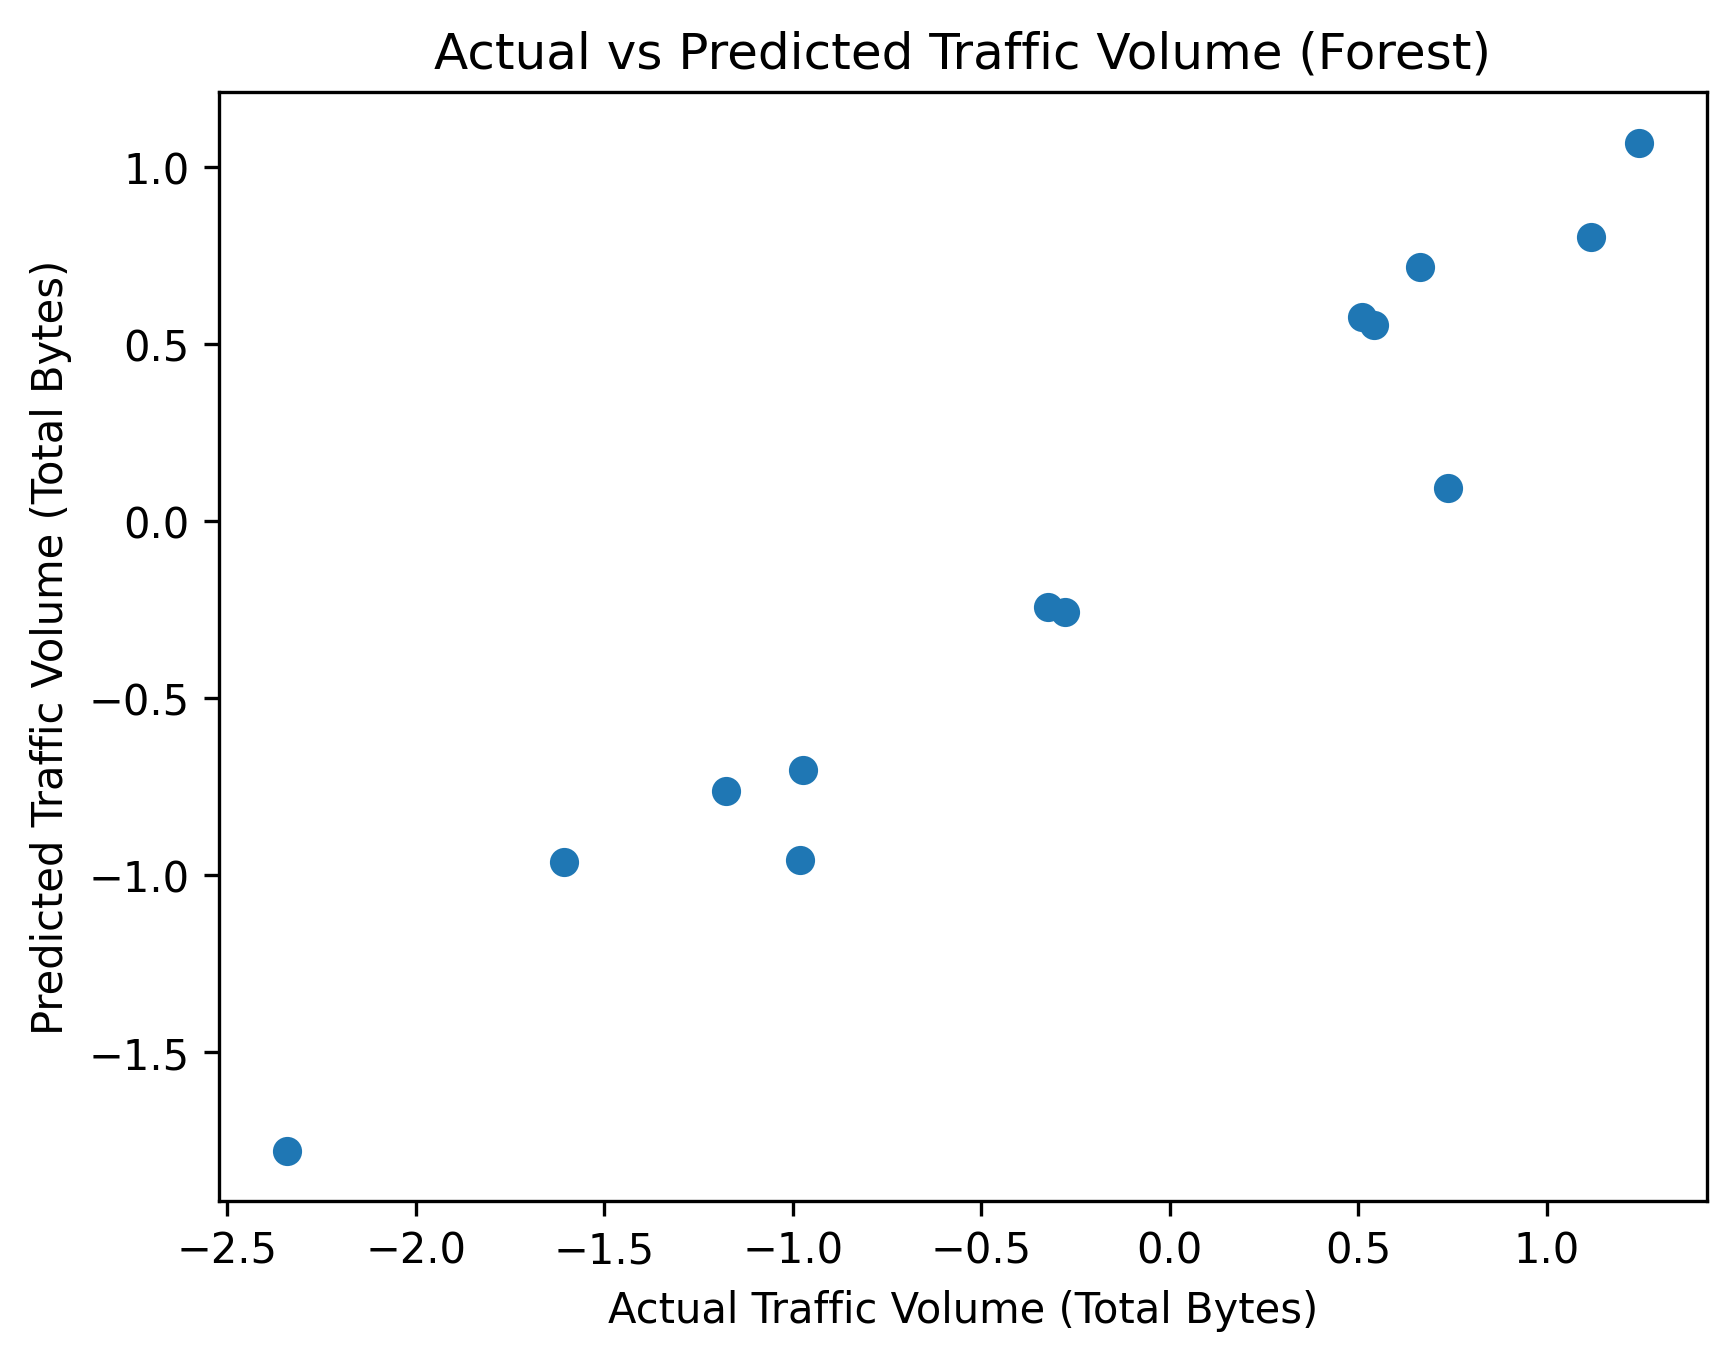
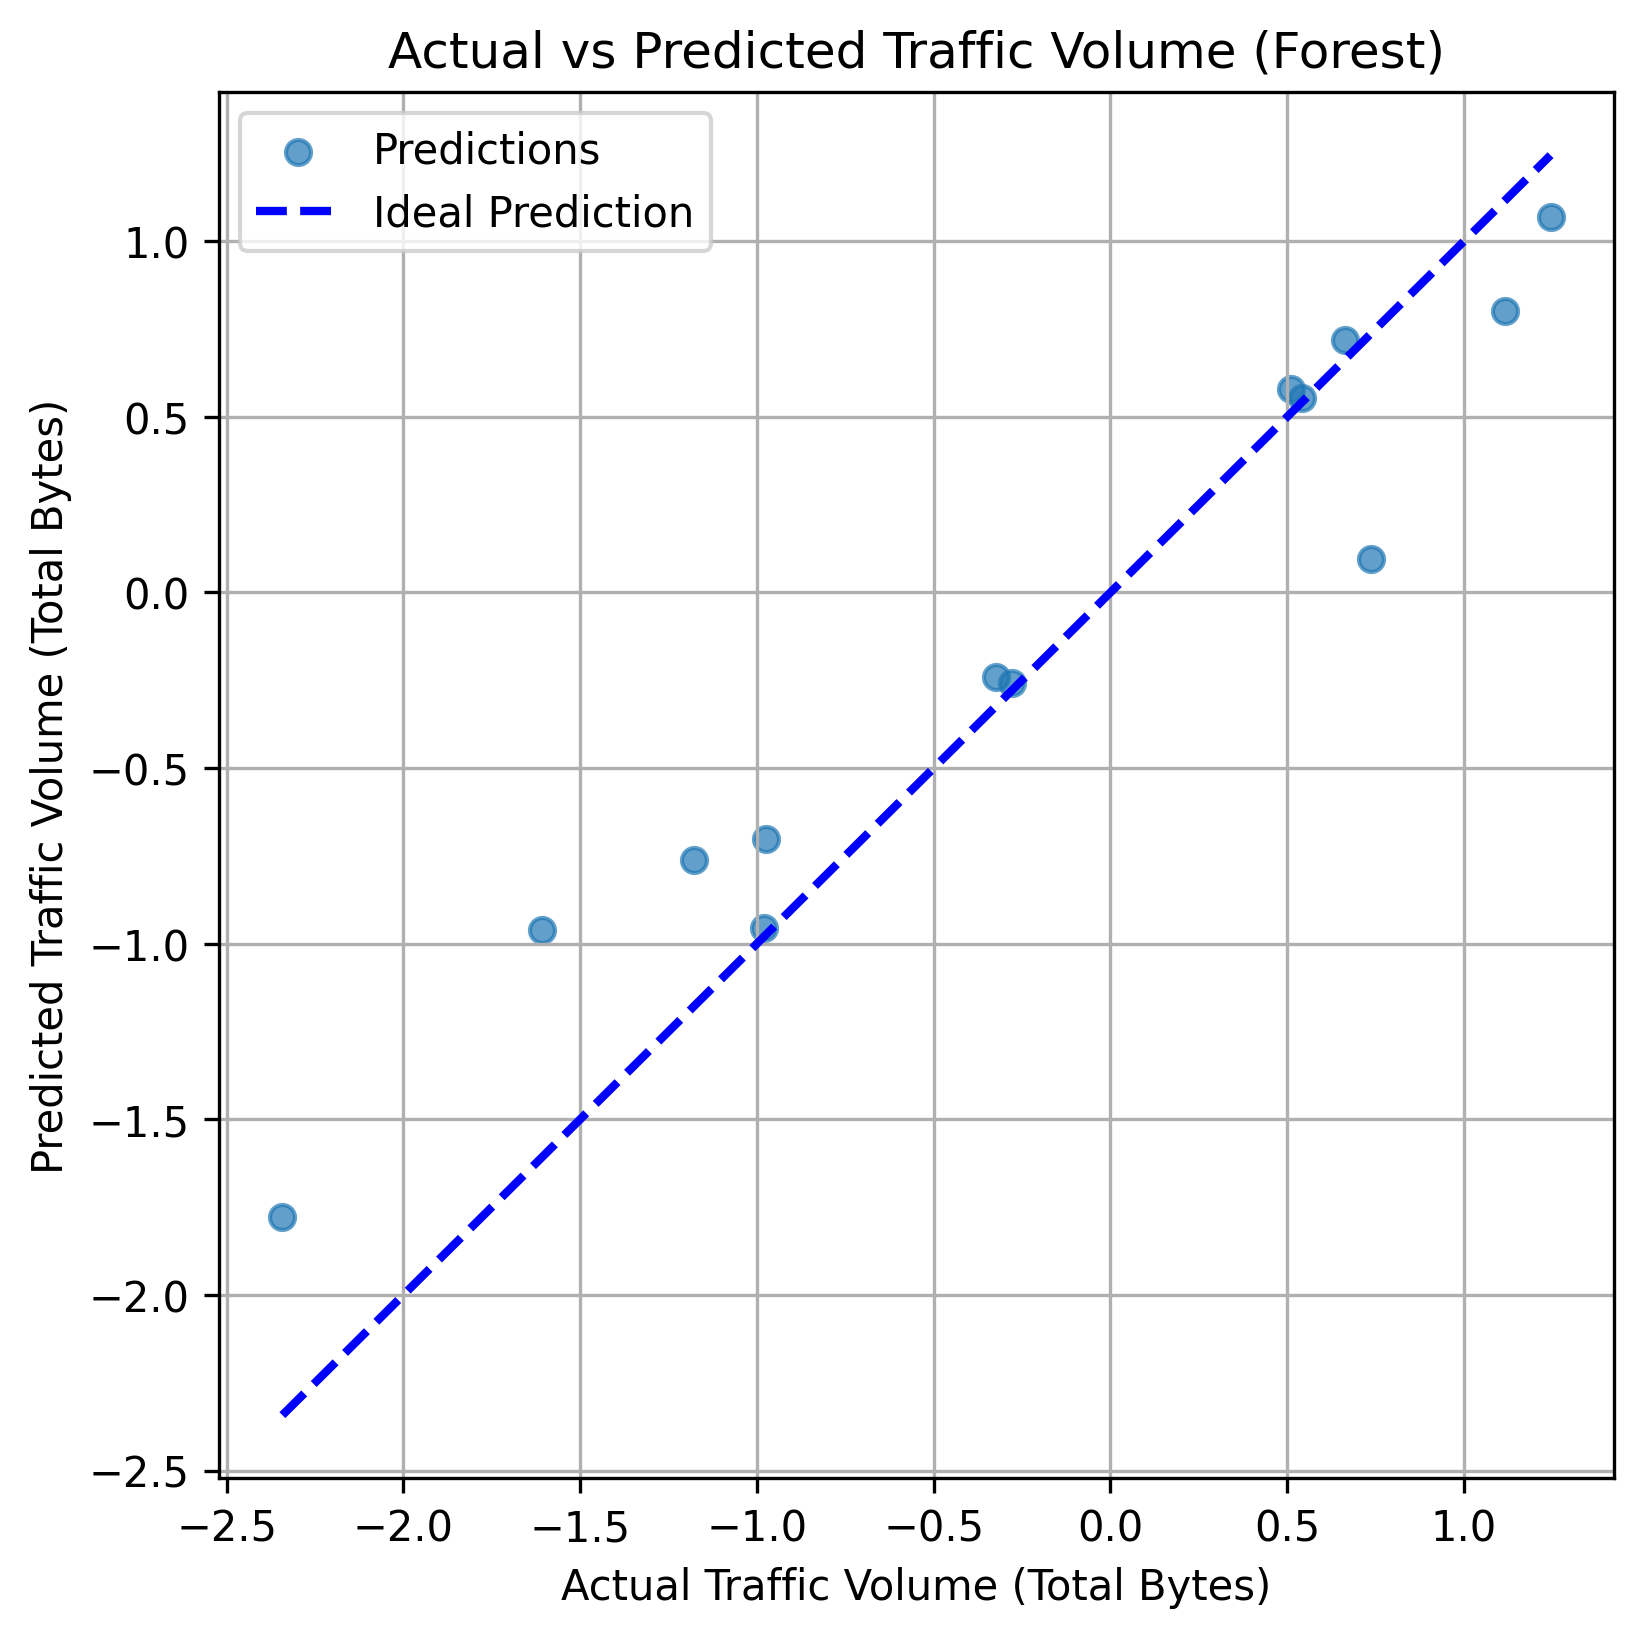
Add files via upload

diff --git a/train_model_xgboost.py b/train_model_xgboost.py
@@ -29,14 +29,42 @@ def train_and_evaluate_model(input_csv):
     print(f"XGBoost Regressor - Mean Squared Error (MSE): {mse}")
     print(f"XGBoost Regressor - R^2 Score: {r2}")
 
-    # Plot actual vs predicted values
-    plt.scatter(y_test, y_pred)
+    # Define the range for the "ideal" prediction line
+    min_val = min(min(y_test), min(y_pred))
+    max_val = max(max(y_test), max(y_pred))
+    
+    # Scatter plot: Actual vs Predicted
+    plt.figure(figsize=(6, 6))
+    plt.scatter(y_test, y_pred, alpha=0.7, label="Predictions")
+    plt.plot([min_val, max_val], [min_val, max_val], 
+              color="blue", linestyle="--", linewidth=2,
+              label="Ideal Prediction")
     plt.xlabel("Actual Traffic Volume (Total Bytes)")
     plt.ylabel("Predicted Traffic Volume (Total Bytes)")
-    plt.title("Actual vs Predicted Traffic Volume XGBoost")
-    # Save the figure before showing it
-    plt.savefig("actual_vs_predicted_xgboost.png", dpi=300, bbox_inches='tight') 
+    plt.title("Actual vs Predicted Traffic Volume (XGBoost)")
+    plt.legend()
+    plt.grid(True)
+    plt.savefig("actual_vs_predicted_xgboost.png", dpi=300, bbox_inches='tight')
     plt.show()
+
+    # Time-domain plot: Actual vs Predicted
+    plt.figure(figsize=(10, 6))
+    plt.plot(range(len(y_test)), y_test, label="Actual Traffic Volume", color="green", alpha=0.7)
+    plt.plot(range(len(y_test)), y_pred, label="Predicted Traffic Volume", color="orange", alpha=0.7)
+    plt.xlabel("Time Index")
+    plt.ylabel("Traffic Volume (Total Bytes)")
+    plt.title("Time-Domain Analysis of Actual vs Predicted Traffic Volume (XGBoost)")
+    plt.legend()
+    plt.grid(True)
+    plt.savefig("time_domain_actual_vs_predicted_xgboost.png", dpi=300, bbox_inches='tight')
+    plt.show()
+
+    # Return the model for prediction
+    return xgb_model
+
+if __name__ == "__main__":
+    # Train and evaluate the model
+    xgb_model = train_and_evaluate_model("preprocessed_traffic_data.csv")
 
     # Predict traffic volume for new data
     new_data = pd.DataFrame({
@@ -49,6 +77,3 @@ def train_and_evaluate_model(input_csv):
 
     predicted_volume = xgb_model.predict(new_data)
     print(f"Predicted Traffic Volume (Total Bytes): {predicted_volume[0]}")
-
-if __name__ == "__main__":
-    train_and_evaluate_model("preprocessed_traffic_data.csv")

diff --git a/train_model_gradient.py b/train_model_gradient.py
@@ -30,12 +30,31 @@ def train_and_evaluate_model(input_csv):
     print(f"Gradient Boosting - R^2 Score: {r2_gb}")
 
     # Plot actual vs predicted values
-    plt.scatter(y_test, y_pred_gb)
+    min_val = min(min(y_test), min(y_pred_gb))
+    max_val = max(max(y_test), max(y_pred_gb))
+    
+    plt.figure(figsize=(6, 6))
+    plt.scatter(y_test, y_pred_gb, alpha=0.7, label="Predictions")
+    plt.plot([min_val, max_val], [min_val, max_val],
+              color="blue", linestyle="--", linewidth=2, label="Ideal Prediction")
     plt.xlabel("Actual Traffic Volume (Total Bytes)")
     plt.ylabel("Predicted Traffic Volume (Total Bytes)")
     plt.title("Actual vs Predicted Traffic Volume (Gradient Boosting)")
-    # Save the figure before showing it
-    plt.savefig("actual_vs_predicted_gradient.png", dpi=300, bbox_inches='tight') 
+    plt.legend()
+    plt.grid(True)
+    plt.savefig("actual_vs_predicted_gradient.png", dpi=300, bbox_inches='tight')
+    plt.show()
+
+    # Plot predicted vs actual traces in the time domain
+    plt.figure(figsize=(10, 6))
+    plt.plot(range(len(y_test)), y_test, label="Actual Traffic Volume", color="green", alpha=0.7)
+    plt.plot(range(len(y_test)), y_pred_gb, label="Predicted Traffic Volume", color="orange", alpha=0.7)
+    plt.xlabel("Time Index")
+    plt.ylabel("Traffic Volume (Total Bytes)")
+    plt.title("Time-Domain Analysis of Actual vs Predicted Traffic Volume (Gradient Boosting)")
+    plt.legend()
+    plt.grid(True)
+    plt.savefig("time_domain_actual_vs_predicted_gradient.png", dpi=300, bbox_inches='tight')
     plt.show()
 
     # Return the model for prediction

diff --git a/train_model_forest.py b/train_model_forest.py
@@ -30,12 +30,28 @@ def train_and_evaluate_model(input_csv):
     print(f"Random Forest - R^2 Score: {r2_rf}")
 
     # Plot actual vs predicted values
-    plt.scatter(y_test, y_pred_rf)
+    plt.figure(figsize=(6, 6))
+    plt.scatter(y_test, y_pred_rf, alpha=0.7, label="Predictions")
+    plt.plot([min(y_test), max(y_test)], [min(y_test), max(y_test)], 
+              color="blue", linestyle="--", linewidth=2, label="Ideal Prediction")
     plt.xlabel("Actual Traffic Volume (Total Bytes)")
     plt.ylabel("Predicted Traffic Volume (Total Bytes)")
     plt.title("Actual vs Predicted Traffic Volume (Forest)")
-    # Save the figure before showing it
-    plt.savefig("actual_vs_predicted_forest.png", dpi=300, bbox_inches='tight') 
+    plt.legend()
+    plt.grid(True)
+    plt.savefig("actual_vs_predicted_forest.png", dpi=300, bbox_inches='tight')
+    plt.show()
+
+    # Plot predicted vs actual traces in the time domain
+    plt.figure(figsize=(10, 6))
+    plt.plot(range(len(y_test)), y_test, label="Actual Traffic Volume", color="green", alpha=0.7)
+    plt.plot(range(len(y_test)), y_pred_rf, label="Predicted Traffic Volume", color="orange", alpha=0.7)
+    plt.xlabel("Time Index")
+    plt.ylabel("Traffic Volume (Total Bytes)")
+    plt.title("Time-Domain Analysis of Actual vs Predicted Traffic Volume (Forest)")
+    plt.legend()
+    plt.grid(True)
+    plt.savefig("time_domain_actual_vs_predicted_forest.png", dpi=300, bbox_inches='tight')
     plt.show()
 
     return rf_model, X_test, y_test
